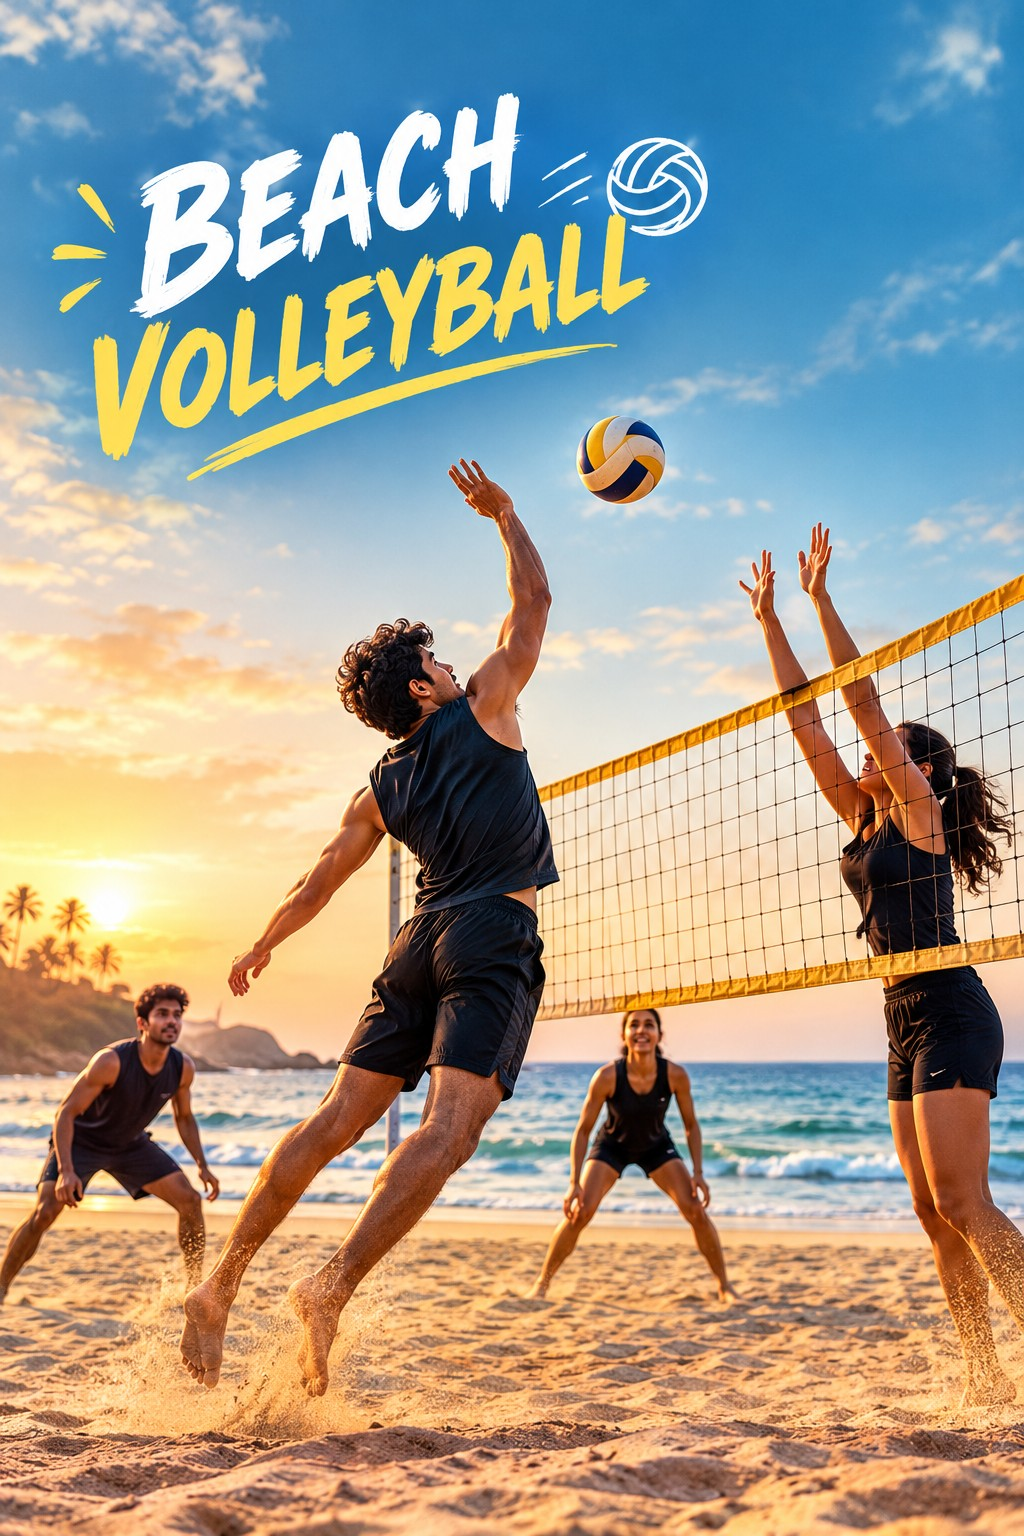
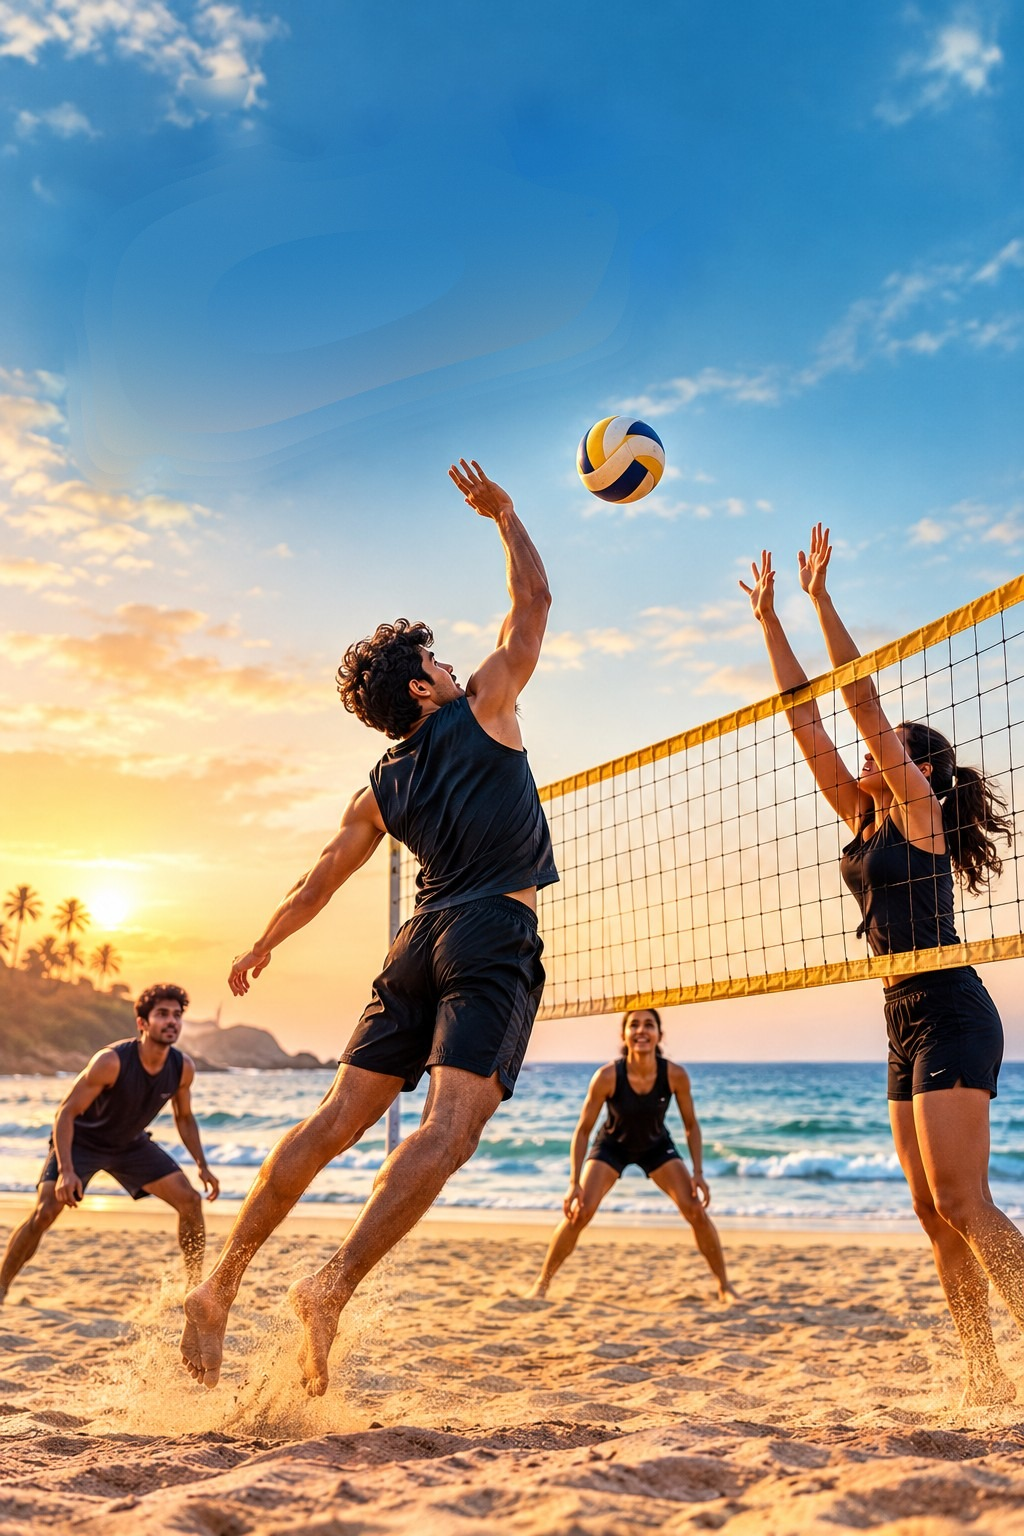
Use sunrise fishermen photo for "Why this championship"; clean volleyball card
- Point the objectives photo at images/fishermen-sunrise.jpg (2000px source, resized to 1600)
- Anchor the volleyball card crop so the ball stays in frame at every width
- Remove the baked-in "BEACH VOLLEYBALL" title from the volleyball image
  (original kept in originals/)

Changed region(s): [[0.0312, 0.0312, 0.6875, 0.3438]]

diff --git a/index.html b/index.html
@@ -703,7 +703,7 @@
     <div class="wrap">
       <div class="obj-layout">
         <div class="obj-photo">
-          <img src="images/fishermen-harbor.jpg" alt="Fishermen pushing their boat into the surf at sunrise on the Tamil Nadu coast">
+          <img src="images/fishermen-sunrise.jpg" alt="Fishermen pushing their boat into the surf at sunrise on the Tamil Nadu coast">
           <div class="cap"><span>608 villages</span>along the Tamil Nadu &amp; Puducherry coast</div>
         </div>
         <div>
@@ -753,7 +753,7 @@
       <div class="events-group-label">Team events <span class="count">Junior · Youth · Senior Youth</span></div>
       <div class="event-grid">
         <div class="event-card photo">
-          <div class="ec-photo-layer" style="background-image:url('images/volleyball-court.jpg'); background-position:center bottom"></div>
+          <div class="ec-photo-layer" style="background-image:url('images/volleyball-court.jpg'); background-position:center 30%"></div>
           <div class="icon-badge c-teal">VB</div>
           <div class="ec-body">
             <h3>Volleyball</h3>
